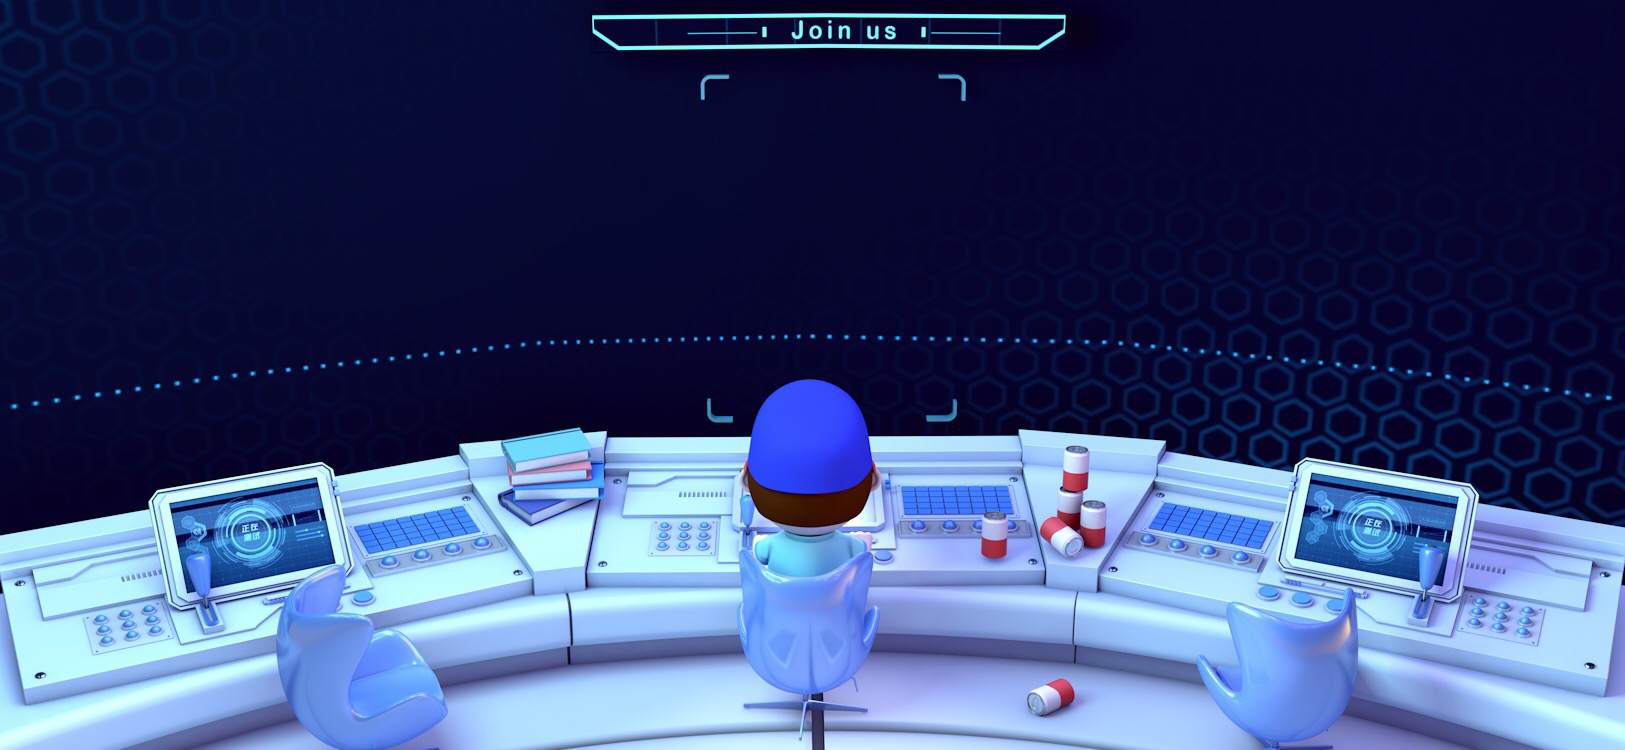
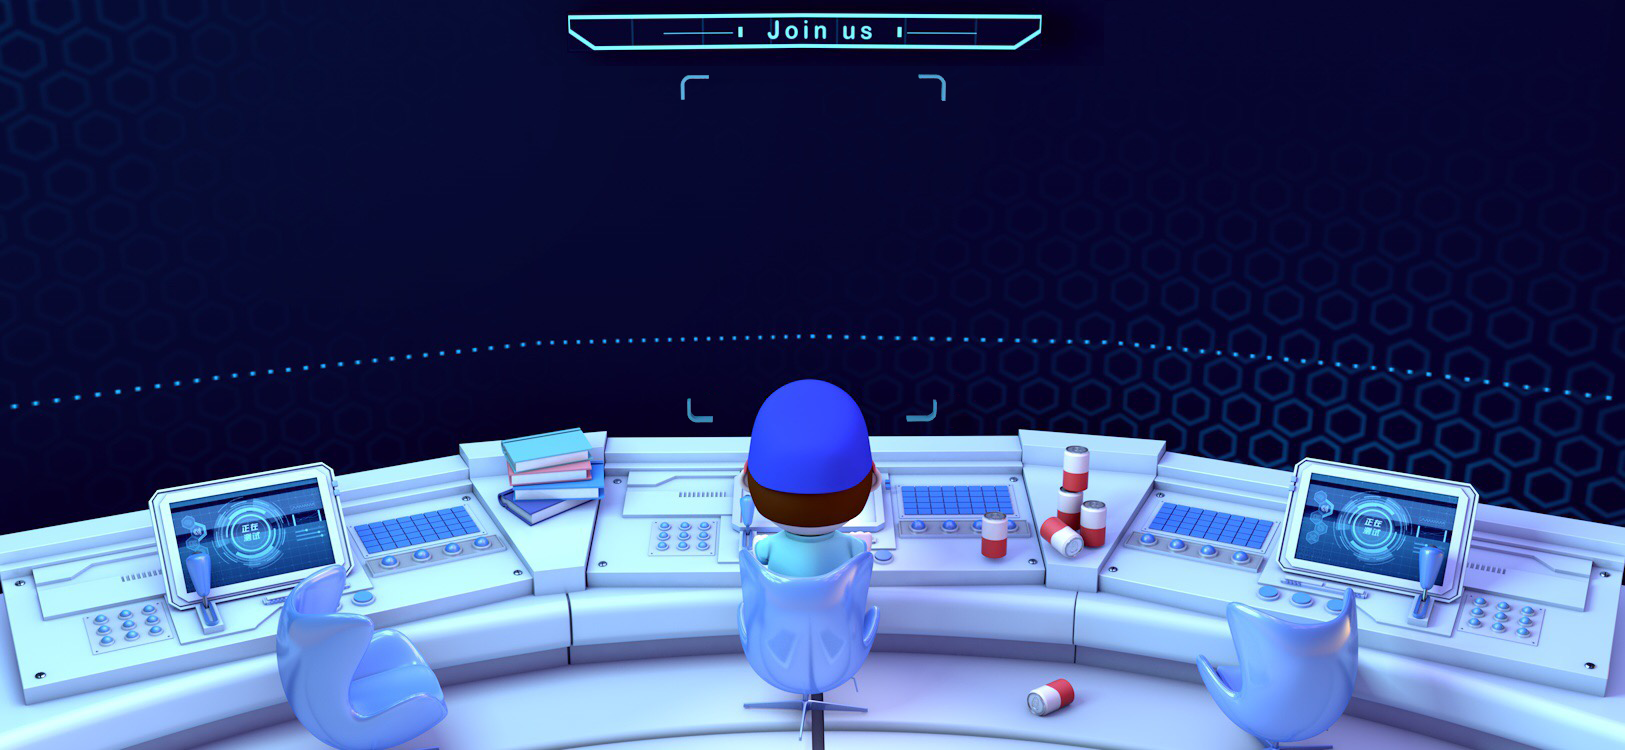
style: 样式的修改

diff --git a/src/pages/index.less b/src/pages/index.less
@@ -25,7 +25,7 @@
   align-items: center;
   flex-direction: column;
   color: #e3daf6;
-  font-size: 18px;
+  font-size: 22px;
   line-height: 45px;
   background-color: #021640;
   position: absolute;
